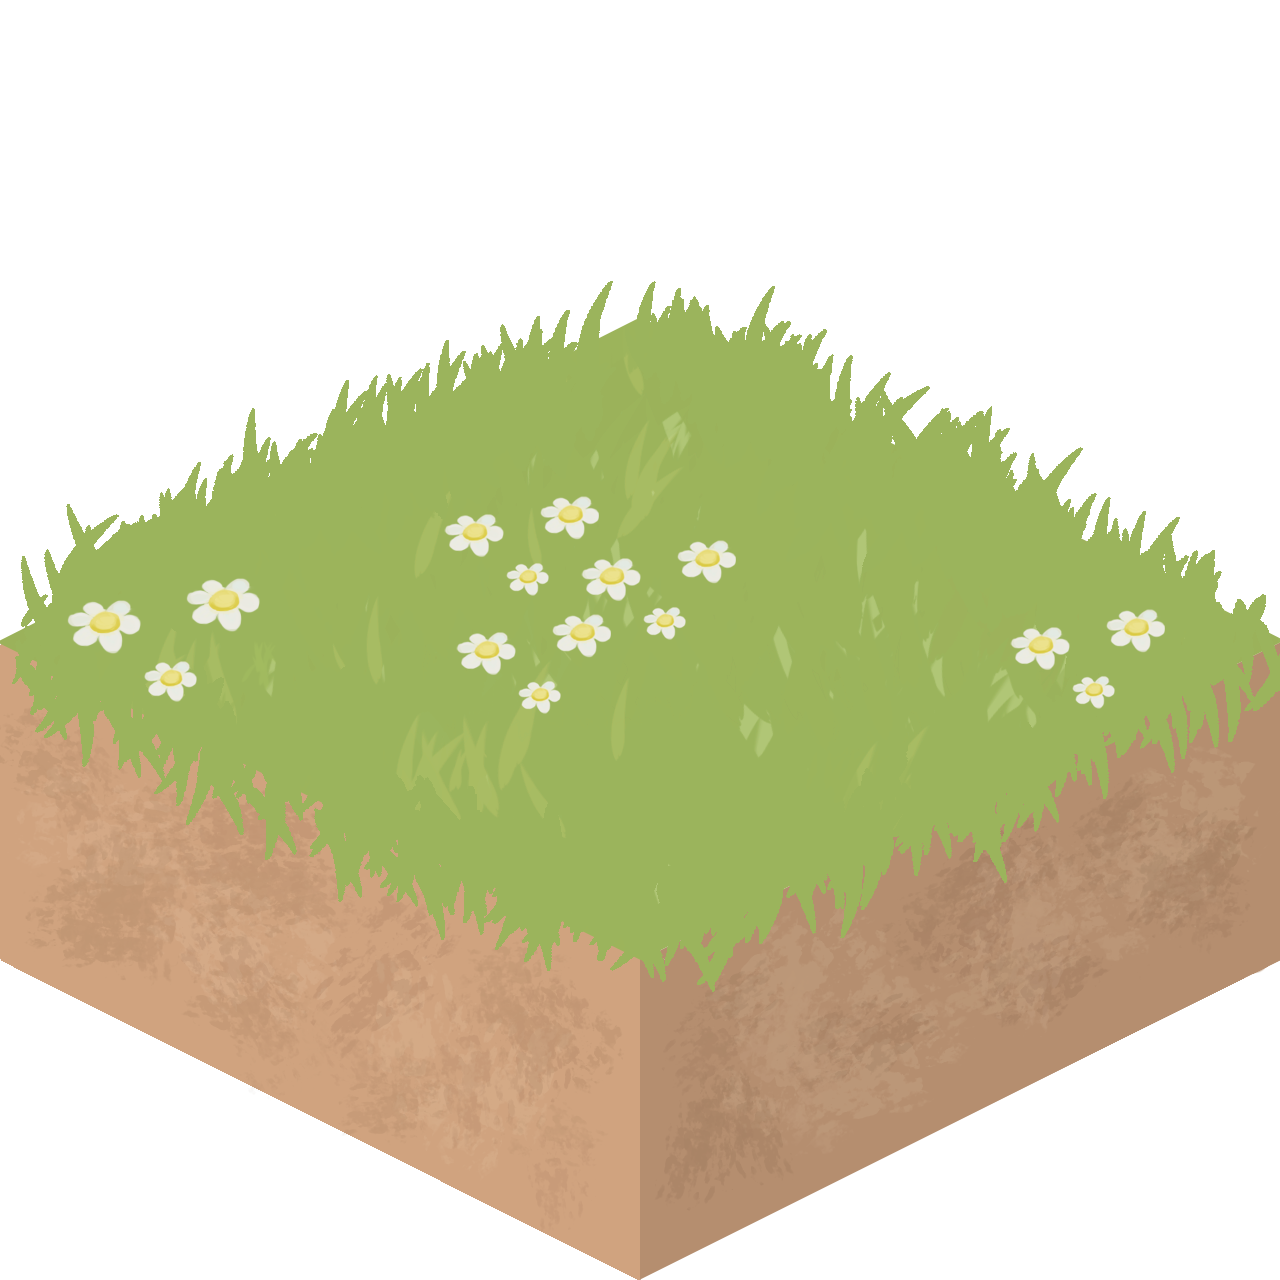
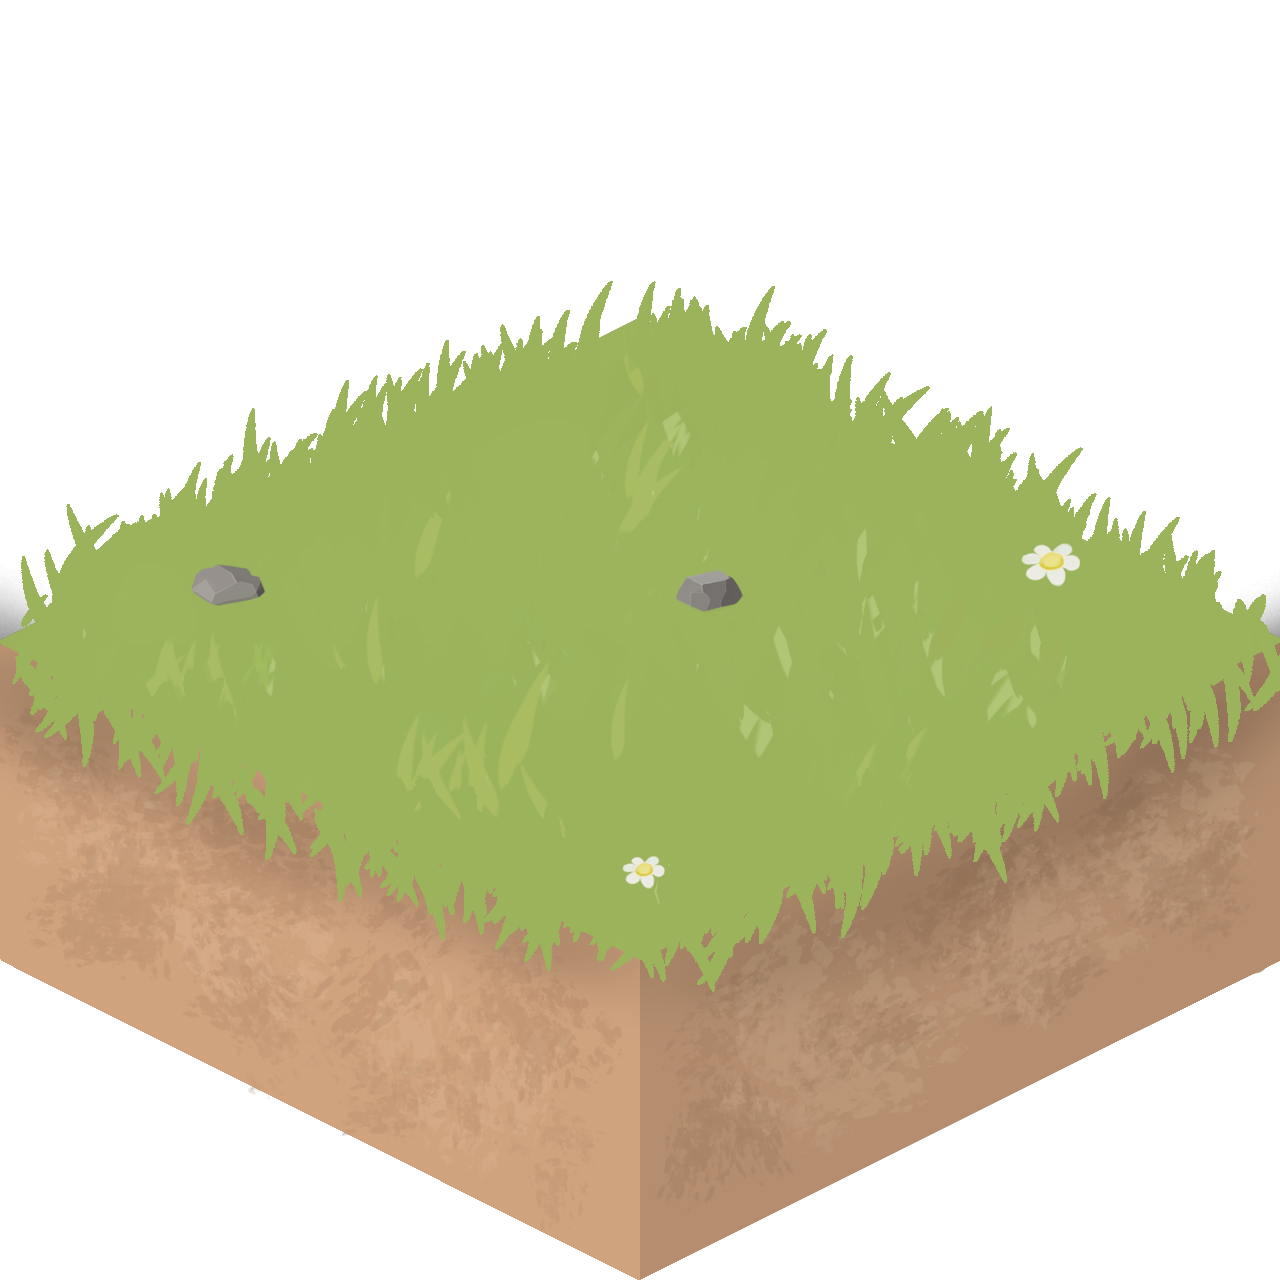
better markers and small fixes

diff --git a/src/render.rs b/src/render.rs
@@ -9,15 +9,16 @@ use rand::prelude::*;
 pub const CELL_SIZE: f32 = 150.0;
 
 pub const GRASS_LAYER: f32 = 0.0;
-pub const CELL_LAYER: f32 = 100.0;
-pub const CROSS_LAYER: f32 = 200.0;
-pub const TEXT_LAYER: f32 = 300.0;
-pub const DOT_LAYER: f32 = 400.0;
+pub const MARKER_LAYER: f32 = 100.0;
+pub const CELL_LAYER: f32 = 200.0;
+pub const CROSS_LAYER: f32 = 300.0;
+pub const TEXT_LAYER: f32 = 400.0;
 pub const AXIS_LAYER: f32 = 500.0;
 
 #[derive(Component, Default)]
 pub struct LevelRender {
     placements: Vec<Entity>,
+    random_number: Vec<Vec<u32>>,
 }
 
 #[derive(Component)]
@@ -73,6 +74,13 @@ pub fn create_level_render(
     let puzzle_height = rows as f32 * CELL_SIZE;
 
     let mut rng = StdRng::seed_from_u64(game_state.current_level as u64);
+    for r in 0..rows {
+        level_render.random_number.push(vec![]);
+        for c in 0..columns {
+            let id: u32 = rng.gen();
+            level_render.random_number[r].push(id);
+        }
+    }
 
     assert_eq!(rows, columns);
     for r in 0..rows {
@@ -84,12 +92,11 @@ pub fn create_level_render(
             let ix = (c as f32 + r as f32) * CELL_SIZE * 0.5;
             let iy = (c as f32 - r as f32) * CELL_SIZE * 0.25;
 
-            let id: u32 = rng.gen();
-            let id = id % 3 + 1;
+            let rid = level_render.random_number[r][c] % 3 + 1;
             let grass_texture = if (r + c) % 2 == 0 {
-                server.load(format!("grass_iso_dark_{id}.png"))
+                server.load(format!("grass_iso_dark_{rid}.png"))
             } else {
-                server.load(format!("grass_iso_light_{id}.png"))
+                server.load(format!("grass_iso_light_{rid}.png"))
             };
             let id = commands
                 .spawn(SpriteBundle {
@@ -162,24 +169,20 @@ pub fn create_level_render(
                 .id();
             commands.entity(level_render_entity).add_child(id);
 
-            let dot_scale = 1.0 / 8.0;
             let id = commands
                 .spawn((
                     SpriteBundle {
                         sprite: Sprite {
-                            custom_size: Some(Vec2::new(
-                                CELL_SIZE * dot_scale,
-                                CELL_SIZE * dot_scale,
-                            )),
+                            custom_size: Some(Vec2::new(CELL_SIZE, CELL_SIZE)),
                             anchor: Anchor::CenterLeft,
                             ..Default::default()
                         },
                         transform: Transform::from_xyz(
-                            ix + CELL_SIZE * (1.0 - dot_scale) / 2.0,
+                            ix,
                             iy,
-                            z + DOT_LAYER,
+                            z + MARKER_LAYER,
                         ),
-                        texture: server.load("dot.png"),
+                        texture: server.load(format!("marker_iso_{rid}.png")),
                         visibility: Visibility::Hidden,
                         ..Default::default()
                     },

diff --git a/src/main.rs b/src/main.rs
@@ -64,7 +64,6 @@ fn setup(mut commands: Commands, server: Res<AssetServer>) {
             "empty.png",
             "forest_iso.png",
             "house_iso.png",
-            "dot.png",
             "lake_iso.png",
             "mountain_iso.png",
             "grass_iso_dark_1.png",
@@ -73,6 +72,9 @@ fn setup(mut commands: Commands, server: Res<AssetServer>) {
             "grass_iso_light_1.png",
             "grass_iso_light_2.png",
             "grass_iso_light_3.png",
+            "marker_iso_1.png",
+            "marker_iso_2.png",
+            "marker_iso_3.png",
         ]
         .map(|name| server.load(name))
         .to_vec(),

diff --git a/src/input.rs b/src/input.rs
@@ -147,7 +147,7 @@ fn mouse_input(
                             settings: PlaybackSettings {
                                 mode: PlaybackMode::Despawn,
                                 volume: Volume::new_absolute(0.0),
-                                speed: 1.2,
+                                speed: 0.9,
                                 ..default()
                             },
                             ..default()
